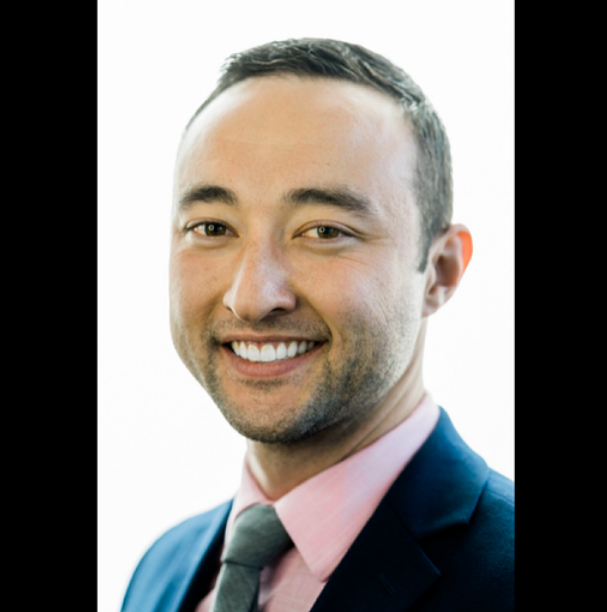
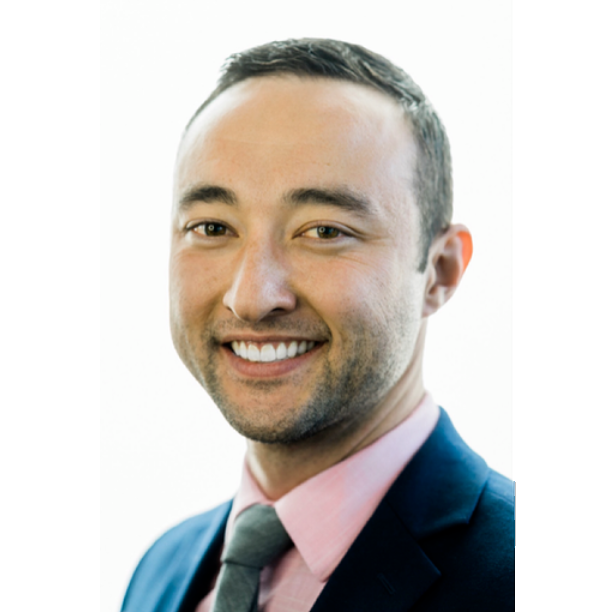
Updated profiles to the correct URLs for LinkedIn and GitHub. Changed jeremy's picture, and edited Ryan's

diff --git a/src/components/aboutus/team2.js b/src/components/aboutus/team2.js
@@ -11,7 +11,7 @@ import kyle from '../../assets/team2_photos/Kyle Porter.jpg';
 import ryan from '../../assets/team2_photos/Ryan Cooper.png'; 
 import regino from '../../assets/team2_photos/Regino Parragil.png'; 
 import thomas from '../../assets/team2_photos/Thomas Rodriguez.png'
-import jeremy from '../../assets/team2_photos/Jeremy Rogel.png';
+import jeremy from '../../assets/team2_photos/Jeremy Rogel.jpg';
 
 const team2 = [
     {
@@ -20,8 +20,8 @@ const team2 = [
         role: 'Team Lead', 
         social: {
             twitter: '', 
-            github: 'https://github.com/jeremyRogel', 
-            linkedin: 'https://www.linkedin.com/in/jeremy-rogel-293640186/', 
+            github: 'jeremyRogel', 
+            linkedin: 'jeremy-rogel-293640186/', 
             
         }, 
         about: 'A natural go-getter, Jeremy Rogel applies his knowledge of code and passion for creation by being the best fullstack web developer this side of the Mississippi! Applying his trade in Durham, NC, his passion to keep getting better shines in whatever he sets out to do.',
@@ -35,7 +35,7 @@ const team2 = [
         social: {
             twitter: '', 
             github: '', 
-            linkedin: '', 
+            linkedin: 'dariush-khansari-8b8a068', 
           
         }, 
         about: 'Dariush Khansari tells stories through visual design and multimedia.',
@@ -49,7 +49,7 @@ const team2 = [
         social: {
             twitter: '', 
             github: '', 
-            linkedin: 'https://www.linkedin.com/in/songamugenzi/', 
+            linkedin: 'songamugenzi/', 
         
         }, 
         about: 'Songa Mugenzi is a strategy-minded user experience designer passionate about designing applications for emerging technologies. His mission in life is to break through our self-imposed barriers to connecting with each other by spotlighting our shared human experience.',
@@ -62,7 +62,7 @@ const team2 = [
         role: 'Data Scientist', 
         social: {
             twitter: '', 
-            github: 'https://github.com/zebfred', 
+            github: 'zebfred', 
             linkedin: '', 
           
         }, 
@@ -76,8 +76,8 @@ const team2 = [
         role: 'Data Scientist', 
         social: {
             twitter: '', 
-            github: 'https://github.com/cshields143', 
-            linkedin: 'https://www.linkedin.com/in/chris-shields-827421194/', 
+            github: 'cshields143', 
+            linkedin: 'chris-shields-827421194/', 
             
         }, 
         about: 'Chris Shields applies data science to problem solving in Spokane, WA. Having received a liberal arts education in the desert, he is now driven to use software and mathematics to empower and improve',
@@ -90,7 +90,7 @@ const team2 = [
         role: 'Data Scientist', 
         social: {
             twitter: '', 
-            github: 'https://github.com/nephylum', 
+            github: 'nephylum', 
             linkedin: '', 
           
         }, 
@@ -104,7 +104,7 @@ const team2 = [
         role: 'Web Developer', 
         social: {
             twitter: '', 
-            github: 'https://github.com/kylewp13', 
+            github: 'kylewp13', 
             linkedin: '', 
             
         }, 
@@ -118,8 +118,8 @@ const team2 = [
         role: 'Web Developer', 
         social: {
             twitter: '', 
-            github: 'https://github.com/ars394', 
-            linkedin: 'https://www.linkedin.com/in/anisha-reddy-394b60ab/', 
+            github: 'ars394', 
+            linkedin: 'anisha-reddy-394b60ab/', 
             
         }, 
         about: '',
@@ -132,8 +132,8 @@ const team2 = [
         role: 'Web Developer', 
         social: {
             twitter: '', 
-            github: 'https://github.com/ryankayne', 
-            linkedin: '', 
+            github: 'ryankayne', 
+            linkedin: 'ryankaynecooper', 
             
         }, 
         about: 'Ryan Cooper is a Web Developer from Michigan.',
@@ -146,7 +146,7 @@ const team2 = [
         role: 'Web Developer', 
         social: {
             twitter: '', 
-            github: 'https://github.com/gio5298', 
+            github: 'gio5298', 
             linkedin: '', 
            
         }, 
@@ -160,7 +160,7 @@ const team2 = [
         role: 'Web Developer', 
         social: {
             twitter: '', 
-            github: 'https://github.com/trodriguez89', 
+            github: 'trodriguez89', 
             linkedin: '', 
             
         }, 
